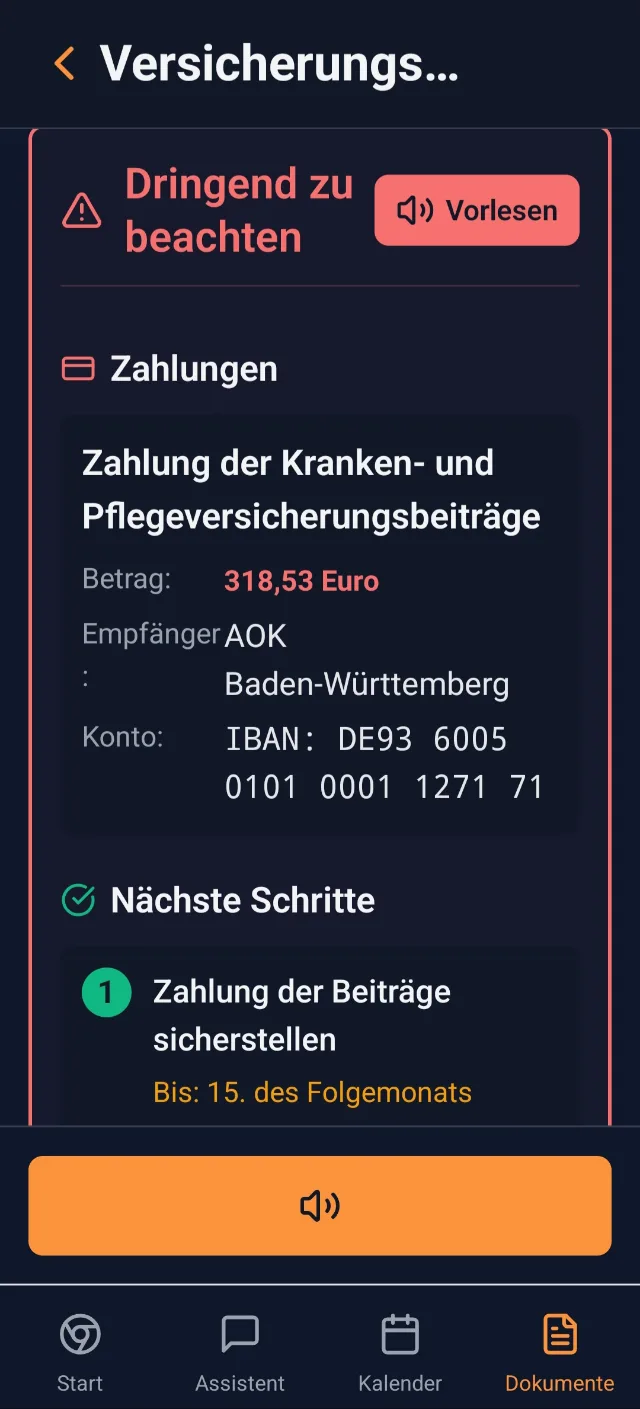
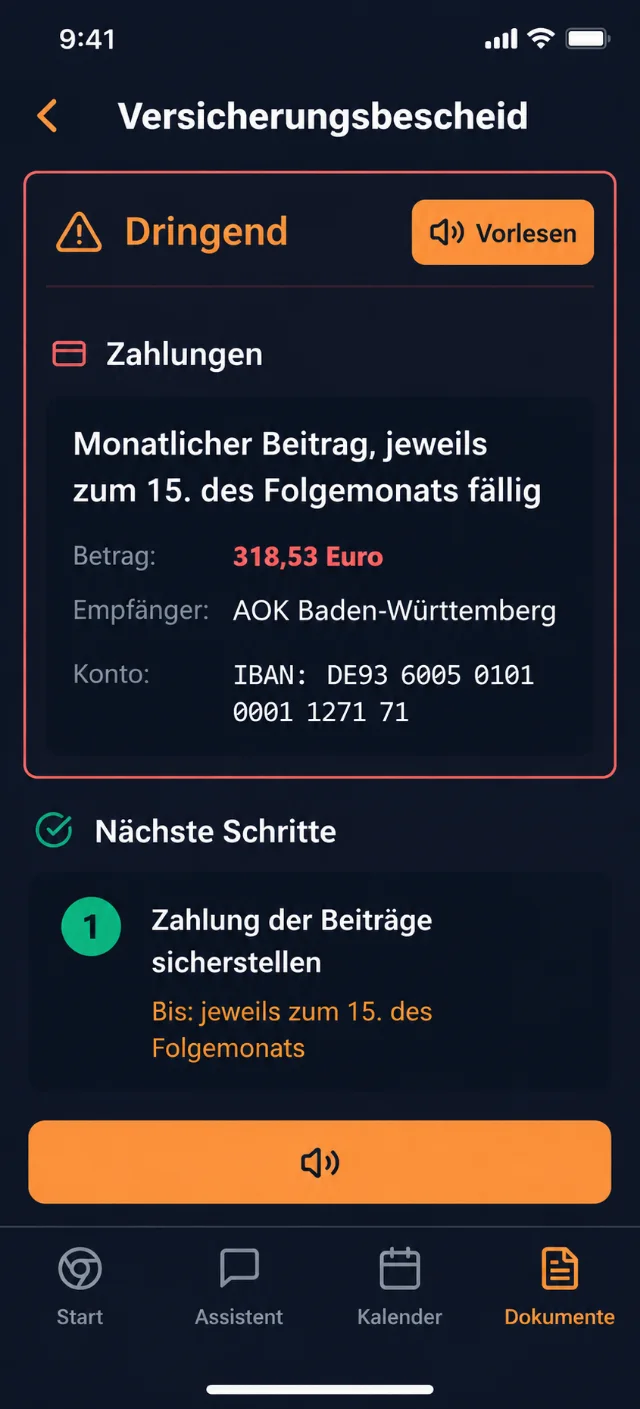
Ablauf Schritt 2: neuer Analyse-Screenshot mit orangem Vorlesen-Button
Original screenshots/analyse-2.png, 640px-Varianten ersetzt,
Alt-Text DE an 'Dringend' angepasst.

diff --git a/index.html b/index.html
@@ -303,7 +303,7 @@
                   </picture>
                   <picture class="flow__shot">
                     <source srcset="assets/screens/flow-analyse-640.webp" type="image/webp" />
-                    <img src="assets/screens/flow-analyse-640.jpg" alt="Schritt 2 in der App: Der Versicherungsbescheid ist erklärt, mit Hinweis „Dringend zu beachten“, Zahlungsbetrag, Empfänger, nächsten Schritten und einem Vorlesen-Button" width="640" height="1409" loading="lazy" decoding="async" />
+                    <img src="assets/screens/flow-analyse-640.jpg" alt="Schritt 2 in der App: Der Versicherungsbescheid ist erklärt, mit Hinweis „Dringend“, Zahlungsbetrag, Empfänger, nächsten Schritten und einem Vorlesen-Button" width="640" height="1409" loading="lazy" decoding="async" />
                   </picture>
                   <picture class="flow__shot">
                     <source srcset="assets/screens/flow-assistent-640.webp" type="image/webp" />
@@ -342,7 +342,7 @@
                     <div class="phone__screen">
                       <picture>
                         <source srcset="assets/screens/flow-analyse-640.webp" type="image/webp" />
-                        <img src="assets/screens/flow-analyse-640.jpg" alt="Der Versicherungsbescheid ist in der App erklärt, mit Hinweis „Dringend zu beachten“, Zahlungsbetrag, Empfänger, nächsten Schritten und einem Vorlesen-Button" width="640" height="1409" loading="lazy" decoding="async" />
+                        <img src="assets/screens/flow-analyse-640.jpg" alt="Der Versicherungsbescheid ist in der App erklärt, mit Hinweis „Dringend“, Zahlungsbetrag, Empfänger, nächsten Schritten und einem Vorlesen-Button" width="640" height="1409" loading="lazy" decoding="async" />
                       </picture>
                     </div>
                   </div>
